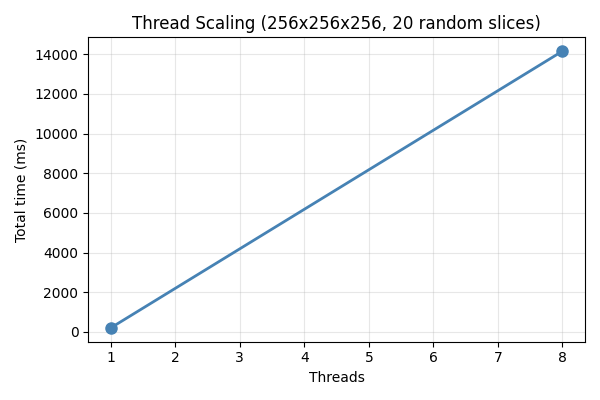
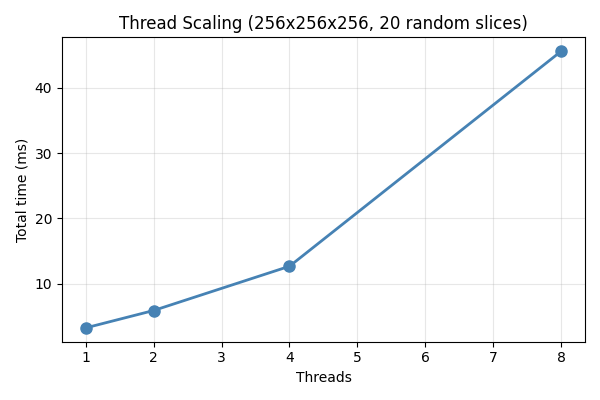
Fix thread_scaling T_total formula, use tee for run logs
- analyze_bench.py: thread scaling now uses T_total = (random_avg + cont_avg)/2
  matching docs/benchmark.md formula
- run_real_bench.sh: use tee to preserve full run.log
- thread_scaling.csv: restored complete t1/t2/t4/t8 rows

diff --git a/scripts/analyze_bench.py b/scripts/analyze_bench.py
@@ -20,6 +20,14 @@ def read_bench_csv(path):
 def balance_ratio(vals):
     return max(vals) / min(vals) if min(vals) > 0 else float('inf')
 
+def calc_t_total(data):
+    """Compute T_total = (random_avg + cont_avg) / 2 (matches docs/benchmark.md)."""
+    xr = data.get('x_random', 0); yr = data.get('y_random', 0); zr = data.get('z_random', 0)
+    xc = data.get('x_continuous', 0); yc = data.get('y_continuous', 0); zc = data.get('z_continuous', 0)
+    random_avg = (xr + yr + zr) / 3
+    cont_avg = (xc + yc + zc) / 3
+    return (random_avg + cont_avg) / 2
+
 def analyze(files, output_dir):
     configs = {}
     for name, path in files.items():
@@ -48,17 +56,15 @@ def analyze(files, output_dir):
                     f"{xc:.2f},{yc:.2f},{zc:.2f},{cavg:.2f},{ttotal:.2f},"
                     f"{balance_ratio([xr,yr,zr]):.2f},{balance_ratio([xc,yc,zc]):.2f}\n")
 
-    # Thread scaling: looks for erwt3d_t1 through erwt3d_t8 in configs
+    # Thread scaling: uses T_total formula (same as docs)
     with open(f"{output_dir}/thread_scaling.csv", "w") as f:
         f.write("threads,T_total_ms,speedup\n")
-        t1_data = configs.get('erwt3d_t1', {})
-        t1_total = t1_data.get('x_random_total',0) + t1_data.get('y_random_total',0) + t1_data.get('z_random_total',0)
+        base = calc_t_total(configs.get('erwt3d_t1', {})) if 'erwt3d_t1' in configs else 1
         for t in [1, 2, 4, 8]:
             name = f'erwt3d_t{t}'
             if name in configs:
-                d = configs[name]
-                total = d.get('x_random_total',0) + d.get('y_random_total',0) + d.get('z_random_total',0)
-                speedup = t1_total / total if t1_total > 0 and total > 0 else 0
+                total = calc_t_total(configs[name])
+                speedup = base / total if base > 0 and total > 0 else 0
                 f.write(f"{t},{total:.2f},{speedup:.2f}\n")
 
     # Cache comparison
